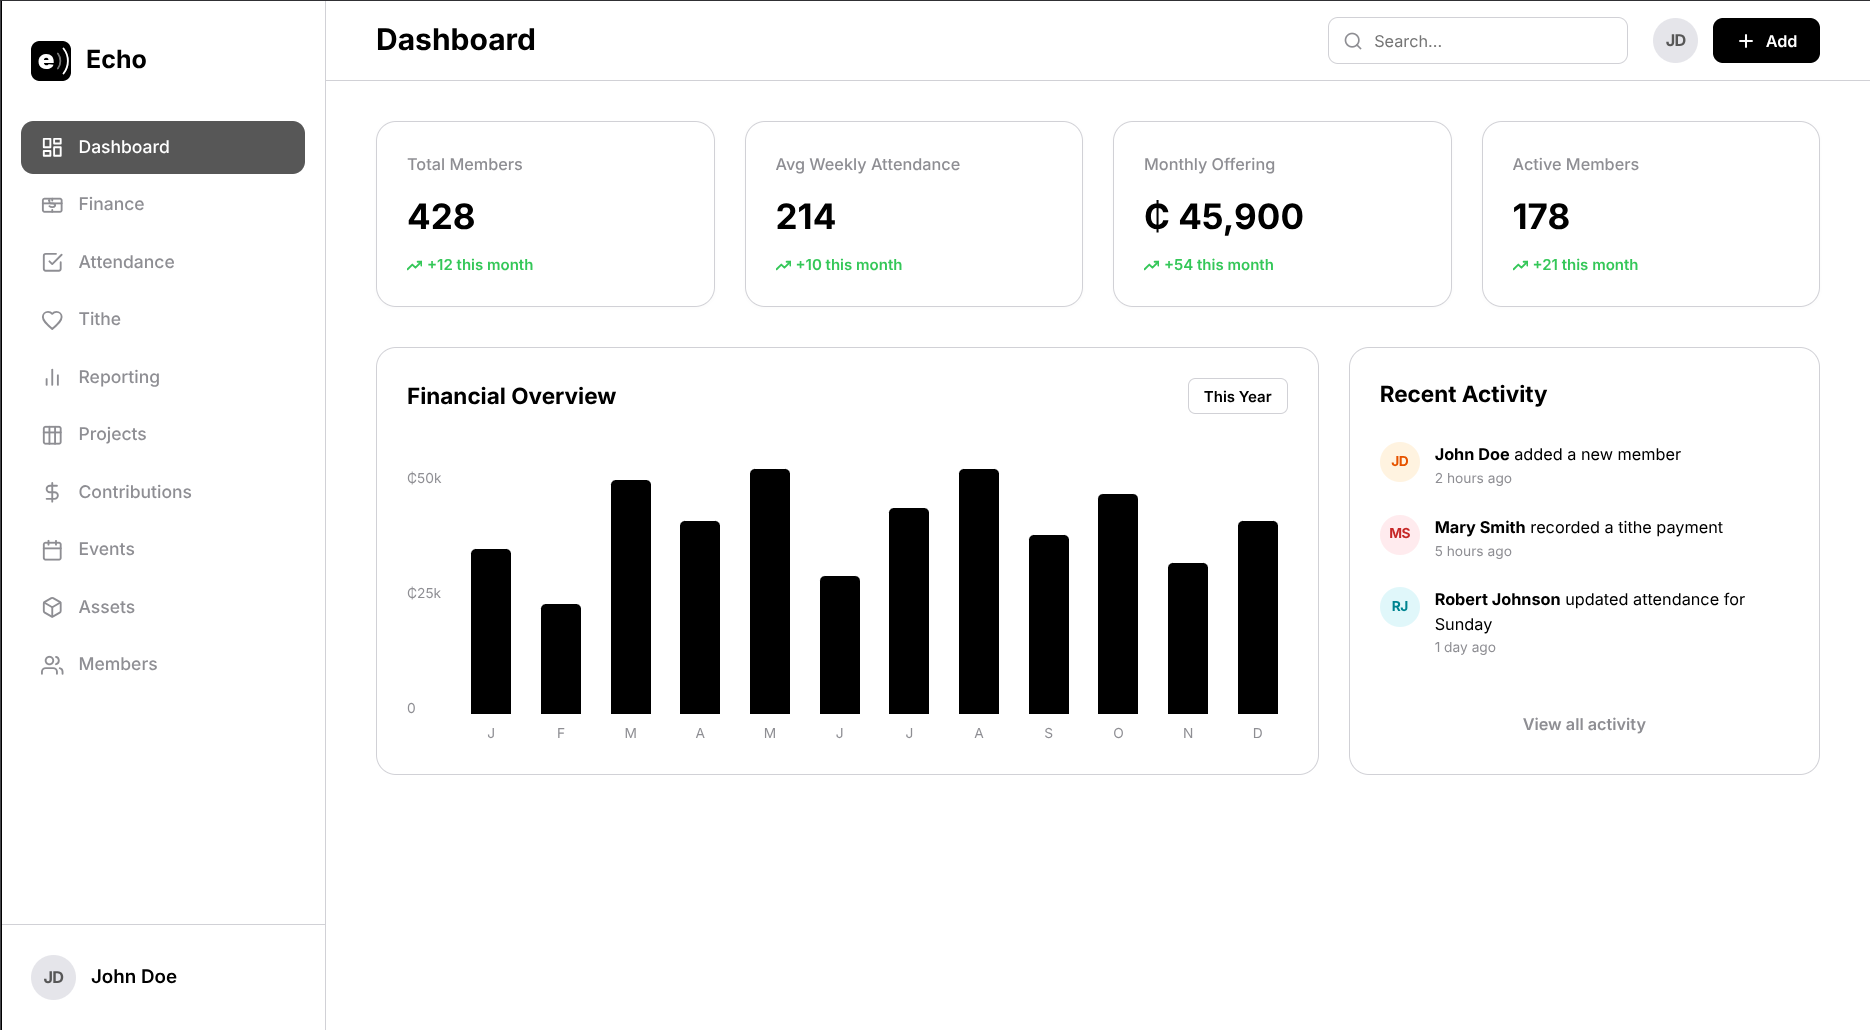
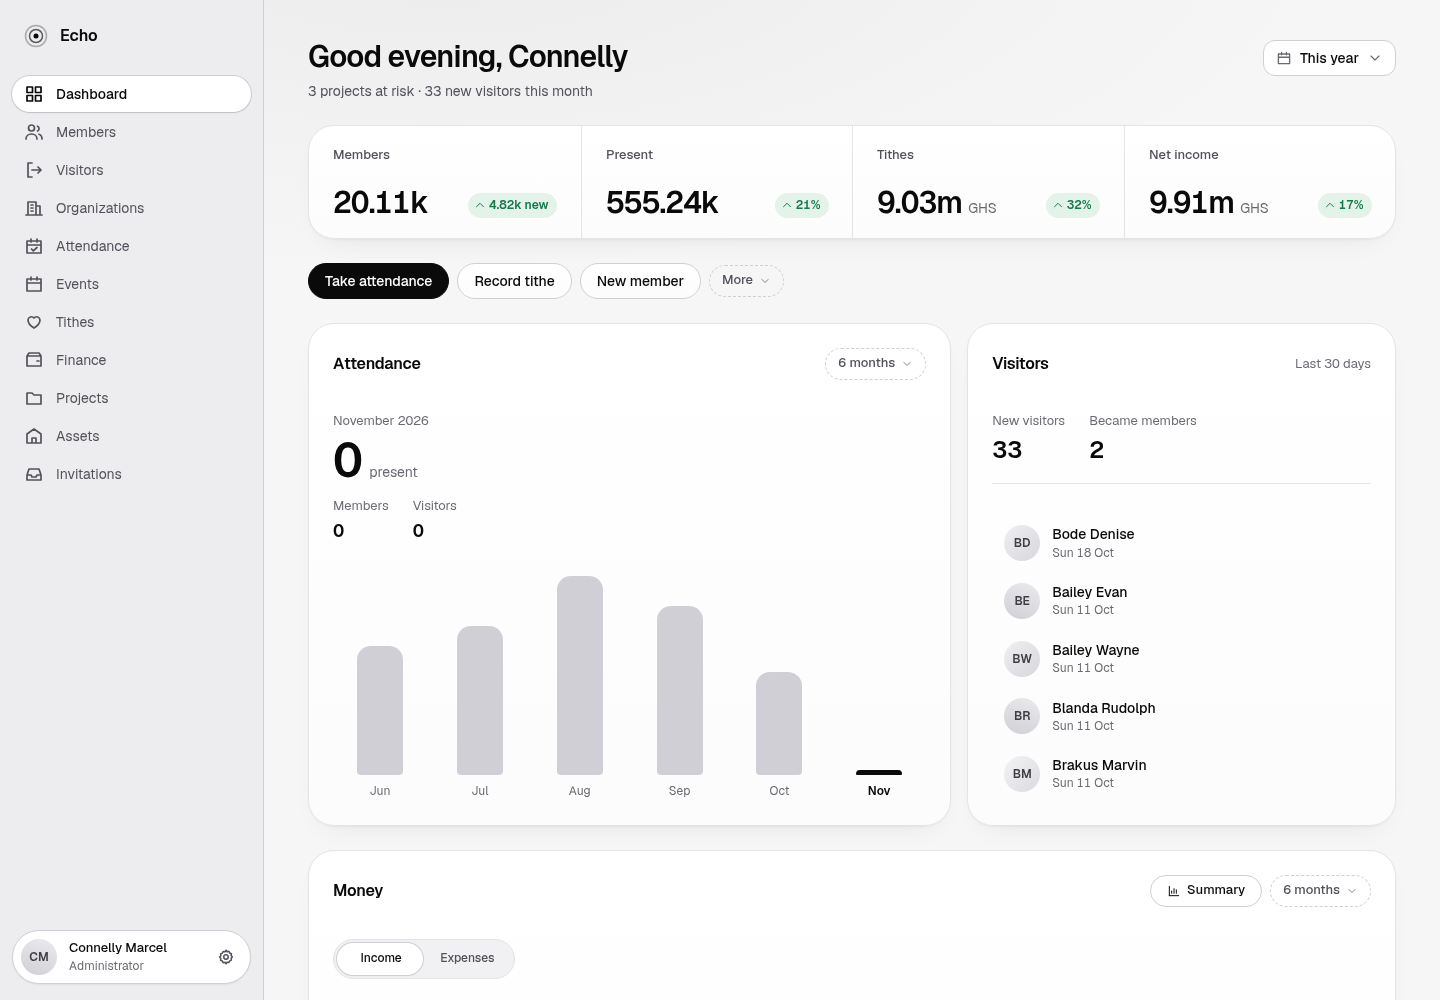
docs: a README that says what Echo does, with a real screenshot (#379)
* docs: replace the dashboard mockup with a real screenshot

The old image was an August design mockup with made-up numbers.

* docs: rewrap the README quick start

* docs: the README says what Echo does

The text described the stack and little else. It now lists what the app
does today (from what is built in the code), who it is for, and how it
runs, and keeps the quick start and release pointers.

* docs: README points at the docs instead of describing releases

* chore(doc): update Security.md

---------

diff --git a/README.md b/README.md
@@ -1,16 +1,46 @@
 # Echo
 
-A multi-tenant church management platform: congregations, members, events,
-attendance, tithes and assets. One .NET API, one React app, one Postgres
-database, run as a single Docker Compose project on one server. Every church
-is a tenant whose data other tenants cannot see.
+Quiet software for loud communities. Echo is church management for
+congregations: one profile for every person, Sunday attendance taken on a
+phone, tithes and expenses on one chart, and a dashboard that answers "how many
+came on Sunday?" without a spreadsheet.
+
+Every congregation is its own private space. A sign-in only ever sees its own
+church's records, and amounts are in Ghana cedis (GHS) with Ghana's regions
+built in.
+
+![The Echo dashboard: member, attendance, tithe and income figures, attendance and visitor cards](./docs/diagrams/DashboardScreenshot.png)
+
+## What it does
+
+| Area | What you can do |
+|---|---|
+| Members | One profile per person: contacts, address, region, emergency contacts, and their attendance, giving and groups |
+| Visitors | Flag first-time guests, follow them up, and turn them into members in one step |
+| Attendance | Take the register on a phone during the service; members and visitors counted apart; session types of your own |
+| Events | Plan, take registrations, and check people in on the day |
+| Tithes | Record each tithe against the right member, with amount, method and the month it is for |
+| Finance | Income and expenses side by side, with your own categories |
+| Projects | Set a target, record each contribution, and watch the progress |
+| Ministries and groups | Choirs, youth, ushers and cell groups, each with its own members |
+| Assets | What the church owns and what it is worth |
+| Team | Invite leaders with a code; four roles (Admin, Accountant, Clerk, Member) decide what each can do |
+
+Charts and figures on the dashboard open the records behind them.
+
+## How it is built
+
+An ASP.NET Core API (minimal APIs, Entity Framework Core) on PostgreSQL 18, a
+React 19 and TypeScript web app, and nginx in front. It runs as one Docker
+Compose project on a single server and ships as versioned container images.
+Metrics, logs and traces go to Grafana, and a Gatus page shows whether each
+service and nightly job is up. Tests are xUnit v3 with Testcontainers for the
+backend and Vitest for the frontend.
 
 Echo is built for a small self-hosted deployment. It has no failover and one
 server's capacity; [Limits](./docs/explanation/limits.md) says what that means.
 
-![Dashboard Screenshot](./docs/diagrams/DashboardScreenshot.png)
-
-## Quick start
+## Run it on your machine
 
 You need Docker with the `docker compose` plugin, Git, the .NET 10 SDK (the
 key script runs it) and a bash shell (on Windows, Git Bash or WSL).
@@ -25,33 +55,17 @@ docker compose up
 ```
 
 The two scripts write generated keys into `.env`. Without real Resend values,
-email (verification, invitations, password reset) does not send. Open http://localhost:8080 and create a church at `/signup/church`; the
-API reference is at http://localhost:8080/scalar. The full walk-through, with
-the output of each step, is [Getting started](./docs/getting-started.md).
-
-## What is in it
-
-| | |
-|---|---|
-| API | ASP.NET Core (minimal APIs), Entity Framework Core, Npgsql |
-| Database | PostgreSQL 18 |
-| Web app | React 19, TypeScript, Vite, TanStack Query |
-| Front door | nginx: serves the web app, proxies `/api`, terminates HTTPS |
-| Observability | Alloy, Loki, Prometheus, Tempo, Grafana; a Gatus status page |
-| Tests | xUnit v3 with Testcontainers (backend), Vitest (frontend) |
+email (verification, invitations, password reset) does not send. Open
+http://localhost:8080 and create a church at `/signup/church`; the API
+reference is at http://localhost:8080/scalar. The full walk-through, with the
+output of each step, is [Getting started](./docs/getting-started.md).
 
 ## Documentation
 
-[`docs/`](./docs/README.md) is organised by what you want to do: how-tos
-(set up a server, release, restore a backup), reference (environment
-variables, services, nginx, CI), and explanations (how it is put together, its
-limits).
-
-## Releases
-
-A release is a version tag on `main`. `gh release create v0.1.2 --target main
---generate-notes` builds the images and deploys them to the server. Going back
-is deploying an older version. See [Release](./docs/how-to/release.md).
+[`docs/`](./docs/README.md) is organised by what you want to do. How-tos cover
+setting up a server, releasing and restoring a backup; the reference covers
+environment variables, services, nginx and CI; and the explanations say why
+Echo is built the way it is and what its limits are.
 
 ## Contributing
 

diff --git a/SECURITY.md b/SECURITY.md
@@ -6,7 +6,7 @@
 
 Instead, use one of these private reporting channels:
 
-1. **Email**: Send details to **clintbamp+echo@gmail.com**.
+1. **Email**: Send details to **security@mail.theechoapp.net**.
    This goes directly to the core maintainer's inbox. We'll acknowledge receipt within 48 hours.
 
 2. **GitHub Private Security Reporting** (preferred if enabled):
